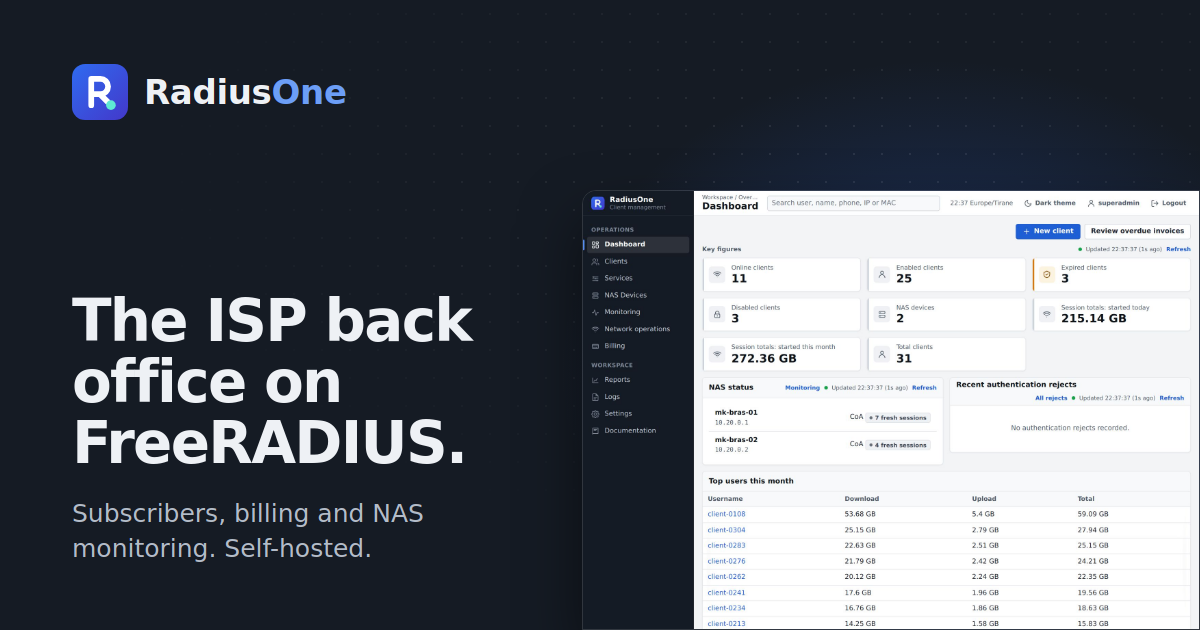
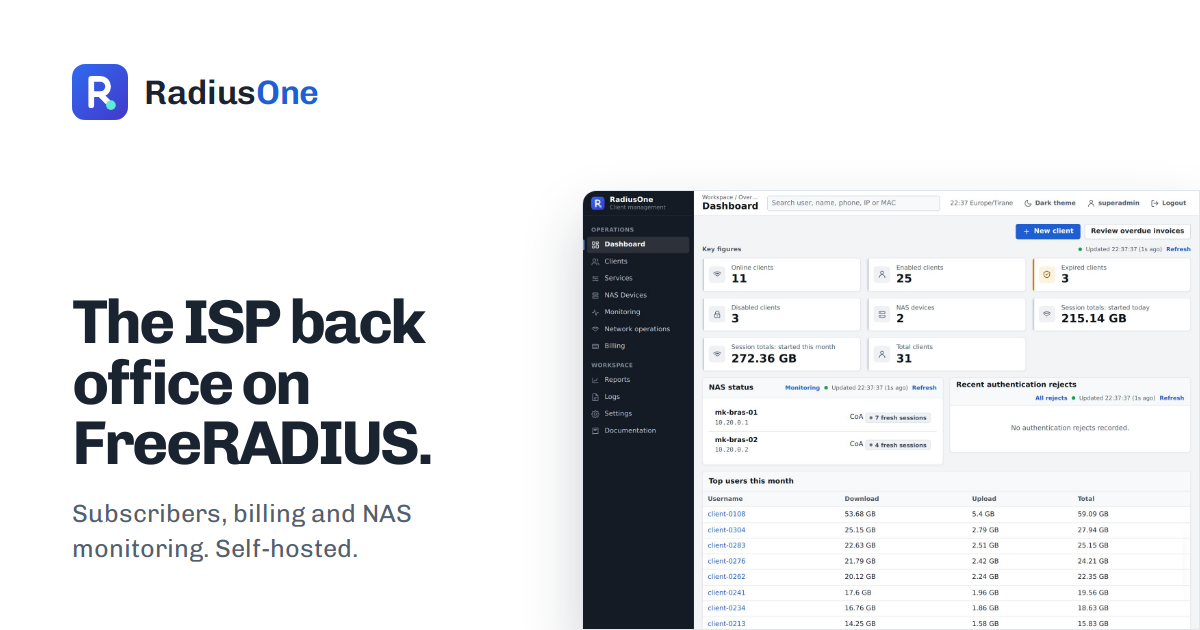
Daylight: polish copy, align tool forms and tabs, console readout flush left, light preview images

diff --git a/src/pages/RadiusOne.tsx b/src/pages/RadiusOne.tsx
@@ -14,7 +14,7 @@ const SPEC: { area: string; icon: string; items: string[] }[] = [
     {
         area: 'Billing',
         icon: 'billing',
-        items: ['Invoices and recurring billing every night', 'Payments with PDF receipts', 'A list of overdue invoices'],
+        items: ['Recurring invoices generated every night', 'Payments with PDF receipts', 'Overdue invoices in one list'],
     },
     {
         area: 'Network',
@@ -41,10 +41,10 @@ const SPEC: { area: string; icon: string; items: string[] }[] = [
 const REQUIREMENTS: { term: string; text: string }[] = [
     { term: 'Operating system', text: 'Ubuntu 24.04 LTS, server or minimal' },
     { term: 'Server', text: '2 CPU cores, 4 GB RAM and 20 GB disk to start; more database memory for thousands of clients' },
-    { term: 'Access', text: 'root, or a user who can run sudo' },
-    { term: 'Internet', text: 'Needed during the install' },
+    { term: 'Access', text: 'Root, or a user with sudo rights' },
+    { term: 'Internet', text: 'Required during installation' },
     { term: 'Domain', text: 'Optional: a DNS name for a trusted Let’s Encrypt certificate' },
-    { term: 'Routers', text: 'MikroTik RouterOS, tested end to end. Cisco IOS XE in Beta' },
+    { term: 'Routers', text: 'MikroTik RouterOS, tested end to end; Cisco IOS XE in Beta' },
 ];
 
 const INSTALL = 'sudo bash install.sh --domain radius.example.com';
@@ -56,17 +56,17 @@ const USE_CASES: { title: string; scene: string; how: string[] }[] = [
         scene: 'Customers connect over PPPoE through RouterOS NAS devices spread across several sites.',
         how: [
             'Each NAS is added once, with its RADIUS secret and SNMP settings',
-            'Suspend or expire a customer and the session is cut over RADIUS CoA',
-            'The monitoring page shows which NAS is up and how many sessions it carries',
+            'Suspend or expire a customer, and RadiusOne ends the session over RADIUS CoA',
+            'The monitoring page shows which NAS devices are up and how many sessions each carries',
         ],
     },
     {
         title: 'An ISP office that bills every month',
-        scene: 'Office staff spend the start of each month making invoices and chasing who has not paid.',
+        scene: 'Office staff spend the first days of every month writing invoices and chasing late payers.',
         how: [
-            'Invoices and recurring billing run every night on their own',
-            'Payments get PDF receipts; overdue invoices have their own list',
-            'Customers get their notices by email or SMS',
+            'Recurring invoices are generated automatically every night',
+            'Every payment gets a PDF receipt; overdue invoices sit in their own list',
+            'Customers receive their notices by email or SMS',
         ],
     },
     {
@@ -74,17 +74,17 @@ const USE_CASES: { title: string; scene: string; how: string[] }[] = [
         scene: 'The customer says the internet is down. The technician has a phone and five minutes.',
         how: [
             'Search by name, phone, IP or MAC from a phone',
-            'See whether the session is online, which NAS it is on and its last usage',
-            'Make the change on the spot, under a role that only allows what support needs',
+            'See whether the session is online, which NAS carries it and its latest usage',
+            'Fix it on the spot, under a role limited to what support needs',
         ],
     },
     {
         title: 'Moving off hand-edited FreeRADIUS',
-        scene: 'The network runs on FreeRADIUS, but every change means SQL by hand and one person who knows how.',
+        scene: 'The network runs on FreeRADIUS, but every change means hand-written SQL, and only one person knows how.',
         how: [
-            'RadiusOne works on the standard FreeRADIUS SQL tables, so nothing is migrated away',
+            'RadiusOne works directly on the standard FreeRADIUS SQL tables, so there is nothing to migrate',
             'Authentication keeps working even while the portal is in maintenance',
-            'Every operator has their own login, and privileged roles need two-factor sign-in',
+            'Every operator gets their own login, and privileged roles require two-factor sign-in',
         ],
     },
 ];
@@ -158,8 +158,8 @@ function NetworkPath() {
                         Where it sits in your network.
                     </h2>
                     <p className="lead">
-                        RadiusOne writes to the same SQL tables FreeRADIUS already reads. It is never in the login path, so subscribers keep
-                        signing in even while the portal is in maintenance.
+                        RadiusOne writes to the same SQL tables FreeRADIUS already reads. It never sits in the login path, so subscribers keep
+                        connecting even while the portal is down for maintenance.
                     </p>
                 </div>
                 <div className="path">
@@ -279,11 +279,11 @@ export default function RadiusOne() {
                             One command on a fresh server.
                         </h2>
                         <p className="lead">
-                            The installer sets up the portal, the database and FreeRADIUS, connected and secured, with a Let’s Encrypt
-                            certificate for your domain.
+                            The installer sets up the portal, the database and FreeRADIUS, already connected and secured, with a Let’s
+                            Encrypt certificate for your domain.
                         </p>
                         <CopyCommand />
-                        <p className="small muted">Updates and rollback happen later from inside the portal.</p>
+                        <p className="small muted">Later updates and rollbacks run from inside the portal.</p>
                     </div>
                     <dl className="rows">
                         {REQUIREMENTS.map((r) => (
@@ -296,7 +296,7 @@ export default function RadiusOne() {
                 </div>
             </section>
 
-            <Contact title="See it on sample data." text="The demo runs the real RadiusOne portal. Click through anything; nothing you change is saved." />
+            <Contact title="See it on sample data." text="The demo runs the real RadiusOne portal on sample data. Click through anything; nothing you change is saved." />
         </>
     );
 }

diff --git a/src/pages/Home.tsx b/src/pages/Home.tsx
@@ -29,7 +29,7 @@ function Launcher() {
                     <ul className="tile-points">
                         <li>
                             <Icon name="clients" />
-                            PPPoE clients, plans, static IPs and expiry
+                            PPPoE subscribers, plans, static IPs and expiry
                         </li>
                         <li>
                             <Icon name="billing" />
@@ -41,7 +41,7 @@ function Launcher() {
                         </li>
                         <li>
                             <Icon name="shield" />
-                            Roles with two-factor sign-in, encrypted backups
+                            Operator roles, two-factor sign-in and encrypted backups
                         </li>
                     </ul>
                     <div className="actions">
@@ -159,15 +159,14 @@ function HeroConsole() {
     return (
         <div className="console">
             <div className="console-bar">
-                <span className="console-live" data-state={me === undefined ? 'wait' : me ? 'on' : 'off'} />
-                {me === undefined && <span>Finding your address</span>}
-                {me && (
-                    <span>
-                        You are <code className="console-ip">{me.ip}</code>
-                        {me.hostname && <span className="console-host">{me.hostname}</span>}
-                    </span>
-                )}
-                {me === null && <span>Run any check from our server or from other countries</span>}
+                <span className="console-label">
+                    <span className="console-live" data-state={me === undefined ? 'wait' : me ? 'on' : 'off'} />
+                    {me === undefined && 'Finding your address'}
+                    {me && 'Your IP address'}
+                    {me === null && 'Run any check from our server or from other countries'}
+                </span>
+                {me && <code className="console-ip">{me.ip}</code>}
+                {me?.hostname && <span className="console-host">{me.hostname}</span>}
             </div>
             <QuickCheck />
         </div>
@@ -185,8 +184,8 @@ function FreeTools() {
                         Free network, email and BGP tools.
                     </h2>
                     <p className="lead">
-                        {TOOL_LIST.length} checks for anyone who runs a network: from our server, from other countries through Globalping, or
-                        from the internet’s routing table. No account, nothing to install.
+                        {TOOL_LIST.length} checks for anyone who runs a network. Run them from our server, from probes in other countries through
+                        Globalping, or against the internet’s live routing table. No account, nothing to install.
                     </p>
                 </div>
                 <div className="toolgroups">
@@ -229,23 +228,23 @@ function FreeTools() {
 const COMMITMENTS: { term: string; text: string }[] = [
     {
         term: 'Self-hosted',
-        text: 'Our products install on your own server and your data stays there. RadiusOne runs on Ubuntu; every product after it will work the same way.',
+        text: 'Our products install on your own server, and your data stays there. RadiusOne runs on Ubuntu, and every product after it will work the same way.',
     },
     {
         term: 'Safe by default',
         text: 'Operators get only the access their role needs, privileged roles must use two-factor sign-in, and backups are encrypted.',
     },
     {
-        term: 'Built for real ISP size',
-        text: 'Lists, search and exports are built for thousands of subscribers, not for a demo with ten.',
+        term: 'Built for real ISP scale',
+        text: 'Lists, search and exports are designed for thousands of subscribers, not a ten-row demo.',
     },
     {
         term: 'Desk and field',
-        text: 'Every task the office does on a desktop is built to work on a technician’s phone too.',
+        text: 'Every task the office handles at a desk also works on a technician’s phone.',
     },
     {
         term: 'One family',
-        text: 'Products share one look, one set of roles and the same habits, so the next one feels familiar on day one.',
+        text: 'Every product shares one look, one set of roles and the same workflows, so each new one feels familiar from day one.',
     },
 ];
 
@@ -291,7 +290,7 @@ export default function Home() {
                                 Software that ISPs run on.
                             </h1>
                             <p className="lead">
-                                Self-hosted products for ISPs and network operators, and {TOOL_LIST.length} free tools for anyone who runs a
+                                Self-hosted software for ISPs and network operators, plus {TOOL_LIST.length} free tools for anyone who runs a
                                 network.
                             </p>
                         </div>
@@ -304,7 +303,7 @@ export default function Home() {
             <About />
             <Contact
                 title="Talk to us."
-                text="Questions about RadiusOne, the products coming next or the tools: email us. Or try the RadiusOne demo first; nothing you change in it is saved."
+                text="Email us with questions about RadiusOne, the products coming next or the free tools. Or explore the RadiusOne demo first; nothing you change there is saved."
             />
         </>
     );

diff --git a/src/lib/toolList.ts b/src/lib/toolList.ts
@@ -11,18 +11,18 @@ export const TOOL_PAGES: Record<ToolGroup, { title: string; path: string; blurb:
 export const TOOL_LIST: { id: string; group: ToolGroup; name: string; blurb: string; icon: string }[] = [
     { id: 'ping', group: 'network', name: 'Ping', blurb: 'Whether a host answers, and the round-trip time', icon: 'activity' },
     { id: 'traceroute', group: 'network', name: 'Traceroute', blurb: 'The path to a host and where responses stop', icon: 'route' },
-    { id: 'mtr', group: 'network', name: 'MTR', blurb: 'Recurring loss or delay, hop by hop', icon: 'chart' },
+    { id: 'mtr', group: 'network', name: 'MTR', blurb: 'Packet loss and delay, hop by hop', icon: 'chart' },
     { id: 'port', group: 'network', name: 'Port check', blurb: 'Whether a TCP service is reachable from our server', icon: 'plug' },
     { id: 'reverse', group: 'network', name: 'Reverse lookup', blurb: 'The hostname (PTR) of an IP, and whether it points back', icon: 'swap' },
     { id: 'proxy', group: 'network', name: 'Proxy checker', blurb: 'Proxy-related headers in your own request', icon: 'shield' },
     { id: 'bandwidth', group: 'network', name: 'Bandwidth meter', blurb: 'Download speed between you and our server', icon: 'gauge' },
-    { id: 'subnet', group: 'network', name: 'Subnet calculator', blurb: 'Subnet range, mask from a range, and splitting', icon: 'calc' },
+    { id: 'subnet', group: 'network', name: 'Subnet calculator', blurb: 'Ranges, masks and subnet splitting', icon: 'calc' },
     { id: 'dns', group: 'email', name: 'DNS lookup', blurb: 'Records, status and TTLs, or answers across locations', icon: 'search' },
     { id: 'mx', group: 'email', name: 'MX check', blurb: 'Which servers receive a domain’s email', icon: 'mail' },
     { id: 'ns', group: 'email', name: 'NS check', blurb: 'Authoritative name servers, their serials, and the SOA', icon: 'server' },
-    { id: 'spf', group: 'email', name: 'SPF check', blurb: 'Which servers may send a domain’s email, and lookup count', icon: 'check' },
+    { id: 'spf', group: 'email', name: 'SPF check', blurb: 'Who may send a domain’s email, and its DNS lookup count', icon: 'check' },
     { id: 'dmarc', group: 'email', name: 'DMARC check', blurb: 'What receivers are asked to do with failing mail', icon: 'shield' },
-    { id: 'dkim', group: 'email', name: 'DKIM check', blurb: 'The public signing key for one selector', icon: 'key' },
+    { id: 'dkim', group: 'email', name: 'DKIM check', blurb: 'The public signing key for a given selector', icon: 'key' },
     { id: 'smtp', group: 'email', name: 'SMTP check', blurb: 'Whether a domain’s mail server answers on port 25', icon: 'message' },
     { id: 'whois', group: 'email', name: 'Registration lookup', blurb: 'Registrar, dates and status of a domain or IP (RDAP/WHOIS)', icon: 'id' },
     { id: 'blacklist', group: 'email', name: 'Blacklist check', blurb: 'Whether an IP or domain is on public spam lists', icon: 'ban' },

diff --git a/src/pages/Tools.tsx b/src/pages/Tools.tsx
@@ -353,7 +353,7 @@ const WORKFLOWS: { title: string; when: string; steps: { tool: string; field: st
         when: 'Routing',
         steps: [
             { tool: 'prefix', field: 'resource', why: 'Is it announced, by which AS, and does RPKI allow it?' },
-            { tool: 'lg', field: 'resource', why: 'What path does each network have to it?' },
+            { tool: 'lg', field: 'resource', why: 'Which paths do networks around the world take to it?' },
             { tool: 'traceroute', field: 'host', why: 'Which networks does traffic cross from here?' },
             { tool: 'whois', field: 'query', why: 'Who is the address space registered to?' },
         ],
@@ -419,7 +419,7 @@ function MyIp() {
 const HERO: Record<ToolGroup, { title: string; lead: string }> = {
     network: {
         title: 'Network tools.',
-        lead: 'Ping, trace or MTR a host from our server or from other countries, test a TCP port, measure your download speed, or plan a subnet. Free, no sign-up.',
+        lead: 'Ping, trace or run MTR to a host from our server or from other countries, test a TCP port, measure your download speed, or plan a subnet. Free, no sign-up.',
     },
     email: {
         title: 'DNS & Email tools.',
@@ -427,7 +427,7 @@ const HERO: Record<ToolGroup, { title: string; lead: string }> = {
     },
     bgp: {
         title: 'BGP & ASN tools.',
-        lead: 'Look up an autonomous system, find which network announces an address and whether RPKI allows it, and see the BGP paths networks around the world use to reach it. Free, no sign-up.',
+        lead: 'Look up an autonomous system, find which network announces an address and whether RPKI validates it, and see the BGP paths networks around the world use to reach it. Free, no sign-up.',
     },
 };
 

diff --git a/src/site.css b/src/site.css
@@ -977,6 +977,12 @@ a:hover {
   font-size: 14px;
 }
 
+.console-label {
+  display: inline-flex;
+  align-items: center;
+  gap: 8px;
+}
+
 .console-live {
   width: 8px;
   height: 8px;
@@ -3551,6 +3557,38 @@ abbr[title] {
 /* --------------------------------------------------------------------------
    Daylight: shape and layout choices that set this version apart
    -------------------------------------------------------------------------- */
+/* Tool tabs sit on an even grid: every row lines up, and no tab is left alone on a line. */
+.tool-tabs {
+  display: grid;
+  grid-template-columns: repeat(auto-fill, minmax(176px, 1fr));
+  gap: 6px;
+}
+
+.tool-tab {
+  justify-content: flex-start;
+}
+
+/* Form rows line up on the inputs: fields align at the top, so a hint under one field never lifts it above the others,
+   and the run button drops by one label line (13px at 1.6, plus the 6px gap) to sit level with the inputs. */
+.tool-form {
+  align-items: flex-start;
+}
+
+.tool-form > .field ~ .btn {
+  margin-top: calc(13px * 1.6 + 6px);
+}
+
+/* On phones the tabs go back to one row that scrolls sideways, and every field takes the full width. */
+@media (max-width: 640px) {
+  .tool-tabs {
+    display: flex;
+  }
+
+  .tool-form > .field {
+    flex-basis: 100%;
+  }
+}
+
 /* Controls are pills; panels are soft 16px rectangles. */
 .btn,
 .badge,
@@ -3611,19 +3649,13 @@ abbr[title] {
 }
 
 .console-bar {
+  flex-direction: column;
   align-items: flex-start;
+  justify-content: flex-start;
+  gap: 6px;
   padding: 20px;
   border-bottom: 0;
   border-right: 1px solid var(--stage-line);
-}
-
-.console-bar > span:last-child {
-  display: grid;
-  gap: 4px;
-}
-
-.console-live {
-  margin-top: 7px;
 }
 
 .console-ip {

diff --git a/src/pages/ComingSoon.tsx b/src/pages/ComingSoon.tsx
@@ -26,8 +26,8 @@ export default function ComingSoon({ brand }: { brand: keyof typeof PRODUCTS }) 
                     {product.job}
                 </h1>
                 <p className="lead">
-                    {product.name} is the next product in the PingOmni family. It is still being planned, so its features and release date are
-                    not set yet. It will be self-hosted and share RadiusOne’s look and roles.
+                    {product.name} is the next product in the PingOmni family. It is still in planning, so its features and release date are
+                    not set yet. Like RadiusOne, it will be self-hosted and share the same look and operator roles.
                 </p>
                 <div className="actions">
                     <a className="btn btn-primary btn-lg" href={mailto(`Tell me when ${product.name} is ready`)}>

diff --git a/tools/bgp/index.html b/tools/bgp/index.html
@@ -6,7 +6,7 @@
         <title>Free BGP tools: AS lookup, BGP route, RPKI and looking glass | PingOmni</title>
         <meta name="description" content="Free BGP and ASN tools: look up any autonomous system, find which network announces an IP and whether RPKI allows it, and see BGP paths from route collectors worldwide." />
         <link rel="canonical" href="%VITE_SITE_URL%/tools/bgp/" />
-        <meta name="theme-color" content="#0a1836" />
+        <meta name="theme-color" content="#ffffff" />
         <link rel="icon" href="../../favicon.svg" type="image/svg+xml" />
         <link rel="apple-touch-icon" href="../../apple-touch-icon.png" />
         <meta property="og:type" content="website" />

diff --git a/tools/network/index.html b/tools/network/index.html
@@ -6,7 +6,7 @@
         <title>Free network tools: ping, traceroute, MTR and port check | PingOmni</title>
         <meta name="description" content="Free online network tools: ping, traceroute and MTR from our server or 30 countries, port checker with common ports, bandwidth meter and a subnet calculator." />
         <link rel="canonical" href="%VITE_SITE_URL%/tools/network/" />
-        <meta name="theme-color" content="#0a1836" />
+        <meta name="theme-color" content="#ffffff" />
         <link rel="icon" href="../../favicon.svg" type="image/svg+xml" />
         <link rel="apple-touch-icon" href="../../apple-touch-icon.png" />
         <meta property="og:type" content="website" />

diff --git a/tools/email/index.html b/tools/email/index.html
@@ -6,7 +6,7 @@
         <title>Free DNS and email tools: MX, SPF, DMARC, DKIM, blacklist | PingOmni</title>
         <meta name="description" content="Free DNS and email tools: DNS lookup from around the world, MX, NS, SPF, DMARC and DKIM checks, SMTP test, WHOIS and a blacklist check against 30+ lists." />
         <link rel="canonical" href="%VITE_SITE_URL%/tools/email/" />
-        <meta name="theme-color" content="#0a1836" />
+        <meta name="theme-color" content="#ffffff" />
         <link rel="icon" href="../../favicon.svg" type="image/svg+xml" />
         <link rel="apple-touch-icon" href="../../apple-touch-icon.png" />
         <meta property="og:type" content="website" />

diff --git a/src/tools/email.tsx b/src/tools/email.tsx
@@ -196,7 +196,7 @@ const dns: ToolSpec = {
     runsOn: (v) =>
         locationsFor(v.from)
             ? `Runs on Globalping probes (${v.from}), started from your browser. Each probe asks ${v.resolver && RESOLVER_IP[v.resolver] ? RESOLVER_LABEL[v.resolver] : 'its own resolver'}.`
-            : `Runs from our server in ${SERVER_LOCATION}, asking ${RESOLVER_LABEL[v.resolver || 'system'].replace(/^The/, 'the')}.`,
+            : `Runs from our server in ${SERVER_LOCATION}, asking ${RESOLVER_LABEL[v.resolver || 'system'].replace(/^(The|Our) /, (m) => m.toLowerCase())}.`,
     duration: 'usually 1–10 seconds',
     run: async (v) => {
         const locations = locationsFor(v.from);

diff --git a/radiusone/index.html b/radiusone/index.html
@@ -6,7 +6,7 @@
         <title>RadiusOne: ISP billing and RADIUS management on FreeRADIUS</title>
         <meta name="description" content="RadiusOne is a self-hosted ISP back office on FreeRADIUS: PPPoE subscribers, service plans, invoices, NAS monitoring over SNMP and CoA disconnects. One-command install." />
         <link rel="canonical" href="%VITE_SITE_URL%/radiusone/" />
-        <meta name="theme-color" content="#0a1836" />
+        <meta name="theme-color" content="#ffffff" />
         <link rel="icon" href="../favicon.svg" type="image/svg+xml" />
         <link rel="apple-touch-icon" href="../apple-touch-icon.png" />
         <meta property="og:type" content="website" />

diff --git a/index.html b/index.html
@@ -6,7 +6,7 @@
         <title>PingOmni: self-hosted software for ISPs and network operators</title>
         <meta name="description" content="PingOmni makes self-hosted software for ISPs and network operators, starting with RadiusOne, the ISP back office on FreeRADIUS, plus free network, DNS and email tools." />
         <link rel="canonical" href="%VITE_SITE_URL%/" />
-        <meta name="theme-color" content="#0a1836" />
+        <meta name="theme-color" content="#ffffff" />
         <link rel="icon" href="./favicon.svg" type="image/svg+xml" />
         <link rel="apple-touch-icon" href="./apple-touch-icon.png" />
         <meta property="og:type" content="website" />
